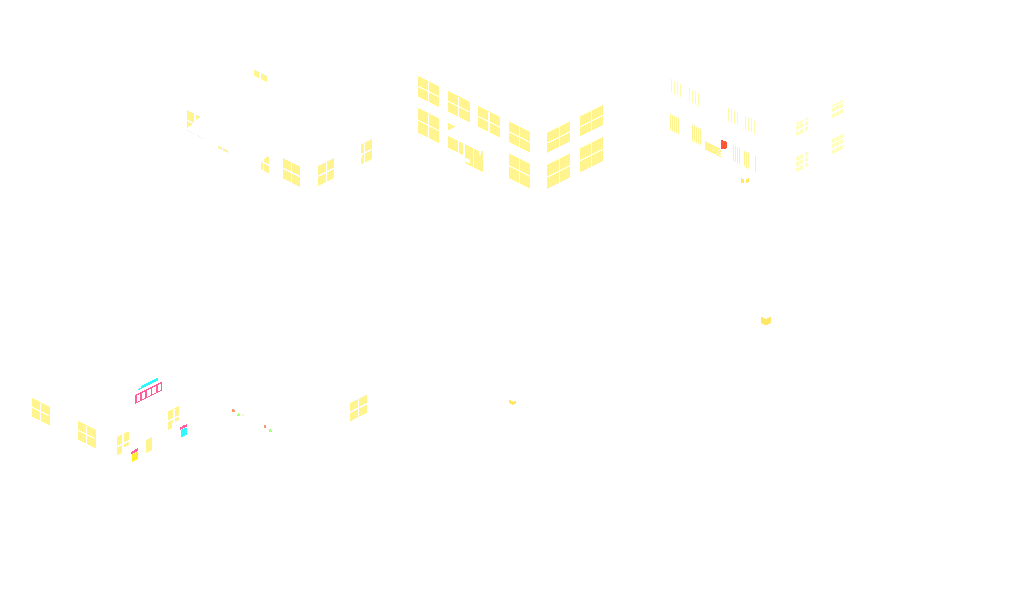
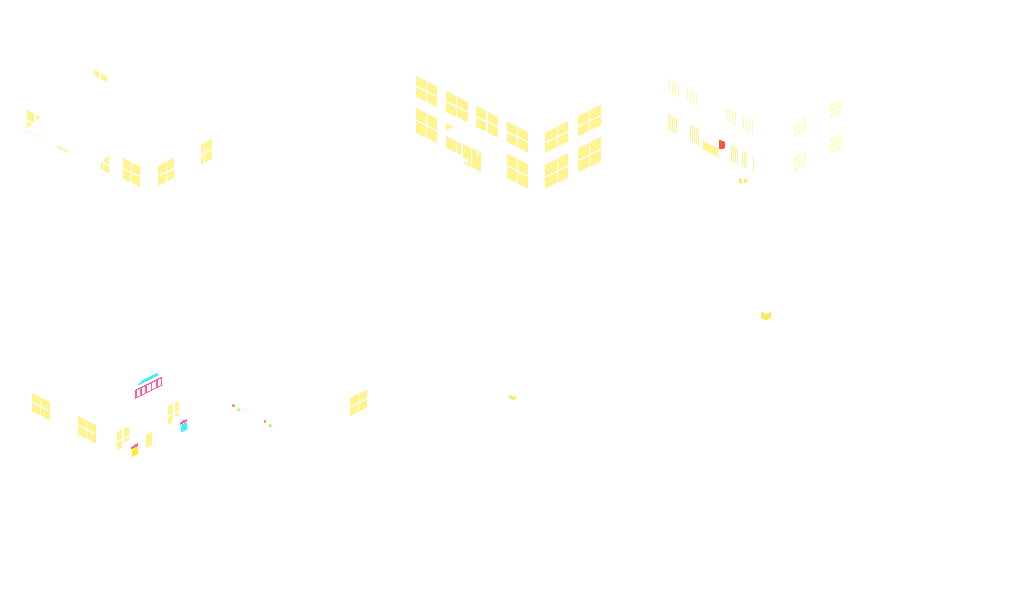
Town step 5: plaza fountain
The tree of life moves to (310, 150) on the high terrace and sits a little lower, so its
crown stays inside the terrain view (the camera never shows above the map's top edge);
the two pines its first spot cleared are back.

Claude-Session: https://claude.ai/code/session_01PNVRsGpaL8ajqgKm3RZjXP

diff --git a/public/town-render.js b/public/town-render.js
@@ -268,10 +268,11 @@
       return col;
     };
     for (const l of map.lots) place(l.building.type, l.building.x, l.building.y);
-    map.decor.forEach((d, i) => place(d.type, d.x, d.y, i));
-    // Spots (town step 5): their props; the waterfall's colour sprite flips through waterfall.0..3 on ambient frames.
-    const falls = [];
-    for (const sp of map.spots || []) for (const p of sp.props || []) { const s = place(p.type, p.x, p.y); if (s && p.type === 'waterfall') falls.push({ s, x: p.x, y: p.y, name: p.type }); }
+    // Town step 5: the waterfall and the plaza fountain's colour sprites flip through <type>.0..3 on ambient frames.
+    const falls = [], plays = { waterfall: 'falls', fountain: 'fountains' };
+    const placeLive = (type, x, y, i) => { const s = place(type, x, y, i); if (s && plays[type]) falls.push({ s, x, y, type, name: type }); };
+    map.decor.forEach((d, i) => placeLive(d.type, d.x, d.y, i));
+    for (const sp of map.spots || []) for (const p of sp.props || []) placeLive(p.type, p.x, p.y); // spot props
     // An atlas frame on a pooled sprite at world (x, y), z px up, mirrored for flip (animals face right): balls and dogs.
     const atlasSprite = () => { const s = new P.Sprite(P.Texture.EMPTY); s.cullable = true; world.addChild(s); sprites++; return s; };
     function putFrame(s, e) {
@@ -309,8 +310,9 @@
     };
     function animate(t) {
       ambT = t;
-      const fk = plan.falls.length ? 'waterfall.' + (Math.floor(t / 160) % 4) : 'waterfall';
-      for (const w of falls) if (w.name !== fk && atlas.frames[fk]) {
+      for (const w of falls) {
+        const fk = plan[plays[w.type]].length ? w.type + '.' + (Math.floor(t / 160) % 4) : w.type;
+        if (w.name === fk || !atlas.frames[fk]) continue;
         const f = atlas.frames[fk], [sx, sy] = atGround(w.x, w.y);
         w.name = fk; w.s.texture = frameTex(tex[colourUrl].source, fk); w.s.position.set(Math.round(sx - f.ax), Math.round(sy - f.ay));
       }

diff --git a/public/town-scenery.js b/public/town-scenery.js
@@ -6,16 +6,18 @@
   'use strict';
   const SHOW_MS = 6000, COOLDOWN_MS = 60000, ANIMAL_R = 40, ANIMAL_COOLDOWN_MS = 30000, GROW = 20, EXIT = 30;
   const grow = (r, d) => [r[0] - d, r[1] - d, r[2] + d, r[3] + d];
-  const inR = (p, r) => p.x >= r[0] && p.x < r[2] && p.y >= r[1] && p.y < r[3];
+  const inR = (p, r) => r.length === 3 ? Math.hypot(p.x - r[0], p.y - r[1]) < r[2] : p.x >= r[0] && p.x < r[2] && p.y >= r[1] && p.y < r[3]; // rect, or circle [x, y, r]
+  const FOUNTAIN_R = 60;
   const list = v => Array.isArray(v) ? v.filter(s => typeof s === 'string') : [];
 
-  // lines: {spots: {<id>: {day, night}}, kain: {day, night}, animals: {<kind>: [..]}}; map: the town (spots, lots).
+  // lines: {spots: {<id>: {day, night}}, kain: {day, night}, fountain: {day, night}, animals: {<kind>: [..]}}; map: the town.
   function create(lines, map) {
     const areas = [];
-    const add = (id, rect, set) => { const day = list(set && set.day), night = list(set && set.night); if (rect && day.length) areas.push({ id, rect, exit: grow(rect, EXIT), day, night: night.length ? night : day, inside: false, leftAt: null, n: 0 }); };
+    const add = (id, rect, set) => { const day = list(set && set.day), night = list(set && set.night); if (rect && day.length) areas.push({ id, rect, exit: rect.length === 3 ? [rect[0], rect[1], rect[2] + EXIT] : grow(rect, EXIT), day, night: night.length ? night : day, inside: false, leftAt: null, n: 0 }); };
     for (const s of map.spots || []) add(s.id, s.bubble || grow(s.rect, GROW), lines.spots && lines.spots[s.id]);
     const kain = (map.lots || []).find(l => l.kind === 'kain');
     if (kain) add('kain', kain.rect, lines.kain);
+    (map.decor || []).filter(it => it.type === 'fountain').forEach((f, i) => add('fountain' + i, [f.x, f.y, FOUNTAIN_R], lines.fountain)); // the plaza fountain
     const pets = new Map(); // animal id -> {at: last shown, n}
     let until = -Infinity;
     return {

diff --git a/public/town-ambient.js b/public/town-ambient.js
@@ -23,10 +23,11 @@
   // trees[].id is the index in map.decor (the renderer's sprite key). Town step 5: falls (the waterfall props) from 'water',
   // visitors (spot activities: hoop shots, dog walks) from 'all'.
   function plan(map, ambient) {
-    const out = { water: [], trees: [], particles: [], falls: [], visitors: false };
+    const out = { water: [], trees: [], particles: [], falls: [], fountains: [], visitors: false };
     if (ambient === 'off' || !ambient) return out;
     out.water = waterPoints(map);
     for (const sp of map.spots || []) for (const p of sp.props || []) if (p.type === 'waterfall') out.falls.push({ x: p.x, y: p.y });
+    for (const it of map.decor || []) if (it.type === 'fountain') out.fountains.push({ x: it.x, y: it.y });
     if (ambient === 'water') return out;
     out.visitors = true;
     map.decor.forEach((d, id) => { if (/^tree/.test(d.type)) out.trees.push({ id, x: d.x, y: d.y }); });
@@ -36,7 +37,7 @@
     if (kain) out.particles.push({ kind: 'steam', x: kain.building.x, y: kain.building.y });
     return out;
   }
-  const isEmpty = p => !p.water.length && !p.trees.length && !p.particles.length && !(p.falls || []).length && !p.visitors;
+  const isEmpty = p => !p.water.length && !p.trees.length && !p.particles.length && !(p.falls || []).length && !(p.fountains || []).length && !p.visitors;
 
   const frameDue = (lastMs, nowMs, fps) => nowMs - lastMs >= 1000 / fps - 1;
 

diff --git a/public/town-map.js b/public/town-map.js
@@ -5,7 +5,7 @@
   const LOT_IDS = ['home', 'kain', 'games', 'friend-1', 'friend-2', 'friend-3'];
   const KINDS = ['home', 'kain', 'games', 'friend'];
   const BUILDINGS = ['office-country', 'office-japanese', 'office-modern', 'karinderya', 'gamehall', 'lot-empty'];
-  const DECOR = ['tree-round', 'tree-pine', 'bush', 'bench', 'lamp', 'well', 'barrel', 'crate', 'flowers', 'sign'];
+  const DECOR = ['tree-round', 'tree-pine', 'bush', 'bench', 'lamp', 'well', 'fountain', 'barrel', 'crate', 'flowers', 'sign'];
   const FACES = ['n', 'e', 's', 'w'];
   // Spots (town step 5): outdoor places idle agents walk out to. kind === id. Props block cells by footprint (relative to
   // x, y; null: drawn only). A seat ('sit') may stand on its bench's blocked cell; every other point needs an open one.
@@ -71,7 +71,10 @@
     return out;
   }
 
-  const decorFootprint = it => (!it || it.type === 'flowers' || !num(it.x) || !num(it.y)) ? null : [it.x - 5, it.y - 5, it.x + 5, it.y + 5];
+  const decorFootprint = it => { // the plaza fountain's basin is 1.5x the well's
+    if (!it || it.type === 'flowers' || !num(it.x) || !num(it.y)) return null;
+    const r = it.type === 'fountain' ? 7.5 : 5; return [it.x - r, it.y - r, it.x + r, it.y + r];
+  };
 
   // Water rects with the bridges cut out; each cut leaves strips left, right, above and below the bridge.
   function waterBlocks(water, bridges) {

diff --git a/art/blender/town_assets.py b/art/blender/town_assets.py
@@ -356,15 +356,15 @@ def tree_of_life():
         for k in range(6):
             t = k / 5; r = r0 + (r1 - r0) * t
             box(math.cos(a) * r - .25, math.sin(a) * r - .25, 0, .5, .5, 0.45 * (1 - t) + 0.12, ['#6b4226', '#5a3a22'][k % 2])
-    cyl(0, 0, 0, 1.2, 6.5, '#6b4226', 12); cyl(0.3, 0.2, 0, 1.0, 5.0, '#5a3a22', 10)
-    for (dx, dy, z0) in [(-1.4, 0.4, 5.5), (1.5, -0.3, 6.0), (0.2, 1.4, 6.5)]:
+    cyl(0, 0, 0, 1.2, 5.0, '#6b4226', 12); cyl(0.3, 0.2, 0, 1.0, 4.0, '#5a3a22', 10)
+    for (dx, dy, z0) in [(-1.4, 0.4, 3.8), (1.5, -0.3, 4.2), (0.2, 1.4, 4.6)]:
         for k in range(5): cyl(dx * k / 4, dy * k / 4, z0 + k * 0.7, 0.75 - k * 0.08, 0.8, '#6b4226', 8)
     tones = ('#2f6a2c', '#3e7d34', '#4e9a3c', '#62b04a')
-    for (dx, dy, dz, r) in [(0, 0, 10.5, 4.8), (-3.6, 1.2, 8.8, 3.6), (3.4, -1.4, 9.2, 3.6), (1.0, 3.6, 8.6, 3.4), (-1.4, -3.6, 9.4, 3.4),
-                            (3.2, 2.6, 9.6, 3.0), (-3.4, 3.0, 9.0, 2.8), (-3.6, -2.6, 9.8, 2.8), (2.8, -3.6, 10.0, 2.8),
-                            (1.6, 1.4, 13.0, 3.4), (-2.0, -0.6, 13.2, 3.2), (0.4, -1.8, 14.8, 2.6), (-0.6, 1.2, 15.6, 2.2)]:
+    for (dx, dy, dz, r) in [(0, 0, 9.1, 4.8), (-3.6, 1.2, 7.4, 3.6), (3.4, -1.4, 7.8, 3.6), (1.0, 3.6, 7.2, 3.4), (-1.4, -3.6, 8.0, 3.4),
+                            (3.2, 2.6, 8.2, 3.0), (-3.4, 3.0, 7.6, 2.8), (-3.6, -2.6, 8.4, 2.8), (2.8, -3.6, 8.6, 2.8),
+                            (1.6, 1.4, 11.6, 3.4), (-2.0, -0.6, 11.8, 3.2), (0.4, -1.8, 13.4, 2.6), (-0.6, 1.2, 14.2, 2.2)]:
         blob(dx, dy, dz, r, R().choice(tones))
-    for _ in range(36): blob(R().uniform(-5, 5), R().uniform(-5, 5), R().uniform(8.5, 15.5), 0.45, R().choice(['#7cc455', '#62b04a']))
+    for _ in range(36): blob(R().uniform(-5, 5), R().uniform(-5, 5), R().uniform(7.1, 14.1), 0.45, R().choice(['#7cc455', '#62b04a']))
     return 3.6, 3.6
 
 
@@ -453,6 +453,27 @@ def cat(step):
 def ball(): blob(0, 0, 0.25, 0.25, '#d9773a'); return 0, 0
 
 
+
+def fountain(k=None):
+    # the plaza fountain: a round stone basin, a centre column with a bowl, water arcing out; k: water frame 0..3 (None: at rest)
+    def build():
+        for a in range(20):
+            ang = a / 20 * 2 * math.pi; box(math.cos(ang) * 2.6 - .4, math.sin(ang) * 2.6 - .4, 0, 0.8, 0.8, 0.8, ['#a39f99', '#8f8b85', '#b3aea6'][a % 3])
+        cyl(0, 0, 0, 2.3, 0.6, '#3f8fc4', 20); cyl(0, 0, 0.6, 2.2, 0.02, '#4f9fd1', 20)
+        cyl(0, 0, 0, 0.35, 2.6, '#a39f99', 10); cyl(0, 0, 2.2, 1.0, 0.25, '#8f8b85', 14); cyl(0, 0, 2.45, 0.85, 0.05, '#4f9fd1', 14)
+        cyl(0, 0, 2.5, 0.15, 0.8, '#bfe6ff', 6)
+        ph = 0 if k is None else k
+        for j in range(8):  # eight arcs from the bowl's lip down into the basin, the drops step along each arc per frame
+            ang = j / 8 * 2 * math.pi
+            for s in range(5):
+                t = ((s + ph * 0.25) % 5) / 5
+                r = 0.9 + 1.0 * t; z = 2.45 + 0.6 * math.sin(math.pi * t * 0.9) - 2.0 * t * t
+                box(math.cos(ang) * r - .08, math.sin(ang) * r - .08, max(0.6, z), .16, .16, .16, '#bfe6ff' if s % 2 else '#d8f4ff')
+        for j in range(6): blob(math.cos(j + ph) * 1.6, math.sin(j + ph) * 1.6, 0.62, 0.18, '#f2f2ee')
+        return 1.5, 1.5
+    return build
+
+
 ASSETS = {
     'office-modern': office_modern, 'office-country': office_country, 'office-japanese': office_japanese,
     'karinderya': karinderya, 'gamehall': gamehall, 'lot-empty': lot_empty,
@@ -460,6 +481,7 @@ ASSETS = {
     'bush': lambda: (bush(0, 0, 0.8, True), (1, 1))[1], 'bench': bench, 'lamp': lambda: (lamp(0, 0), (1, 1))[1], 'well': well,
     'barrel': lambda: (barrel(0, 0), (1, 1))[1], 'crate': lambda: (crate(-0.45, -0.45), (1, 1))[1], 'flowers': flowers, 'sign': sign,
     'bench-s': bench_s, 'tree-of-life': tree_of_life, 'hoop': hoop, 'fence-x': fence_x, 'fence-y': fence_y, 'cow-trough': trough, 'flowerbed': flowerbed,
+    'fountain': fountain(), **{'fountain.%d' % k: fountain(k) for k in range(4)},
     'waterfall': falls(0), **{'waterfall.%d' % k: falls(k) for k in range(4)},
     'cow.rest': cow(0), 'cow.walk0': cow(1), 'cow.walk1': cow(2), 'dog.rest': dog(0), 'dog.walk0': dog(1), 'dog.walk1': dog(2),
     'cat.rest': cat(0), 'cat.walk0': cat(1), 'cat.walk1': cat(2), 'cat.sleep': cat(3), 'ball': ball,
